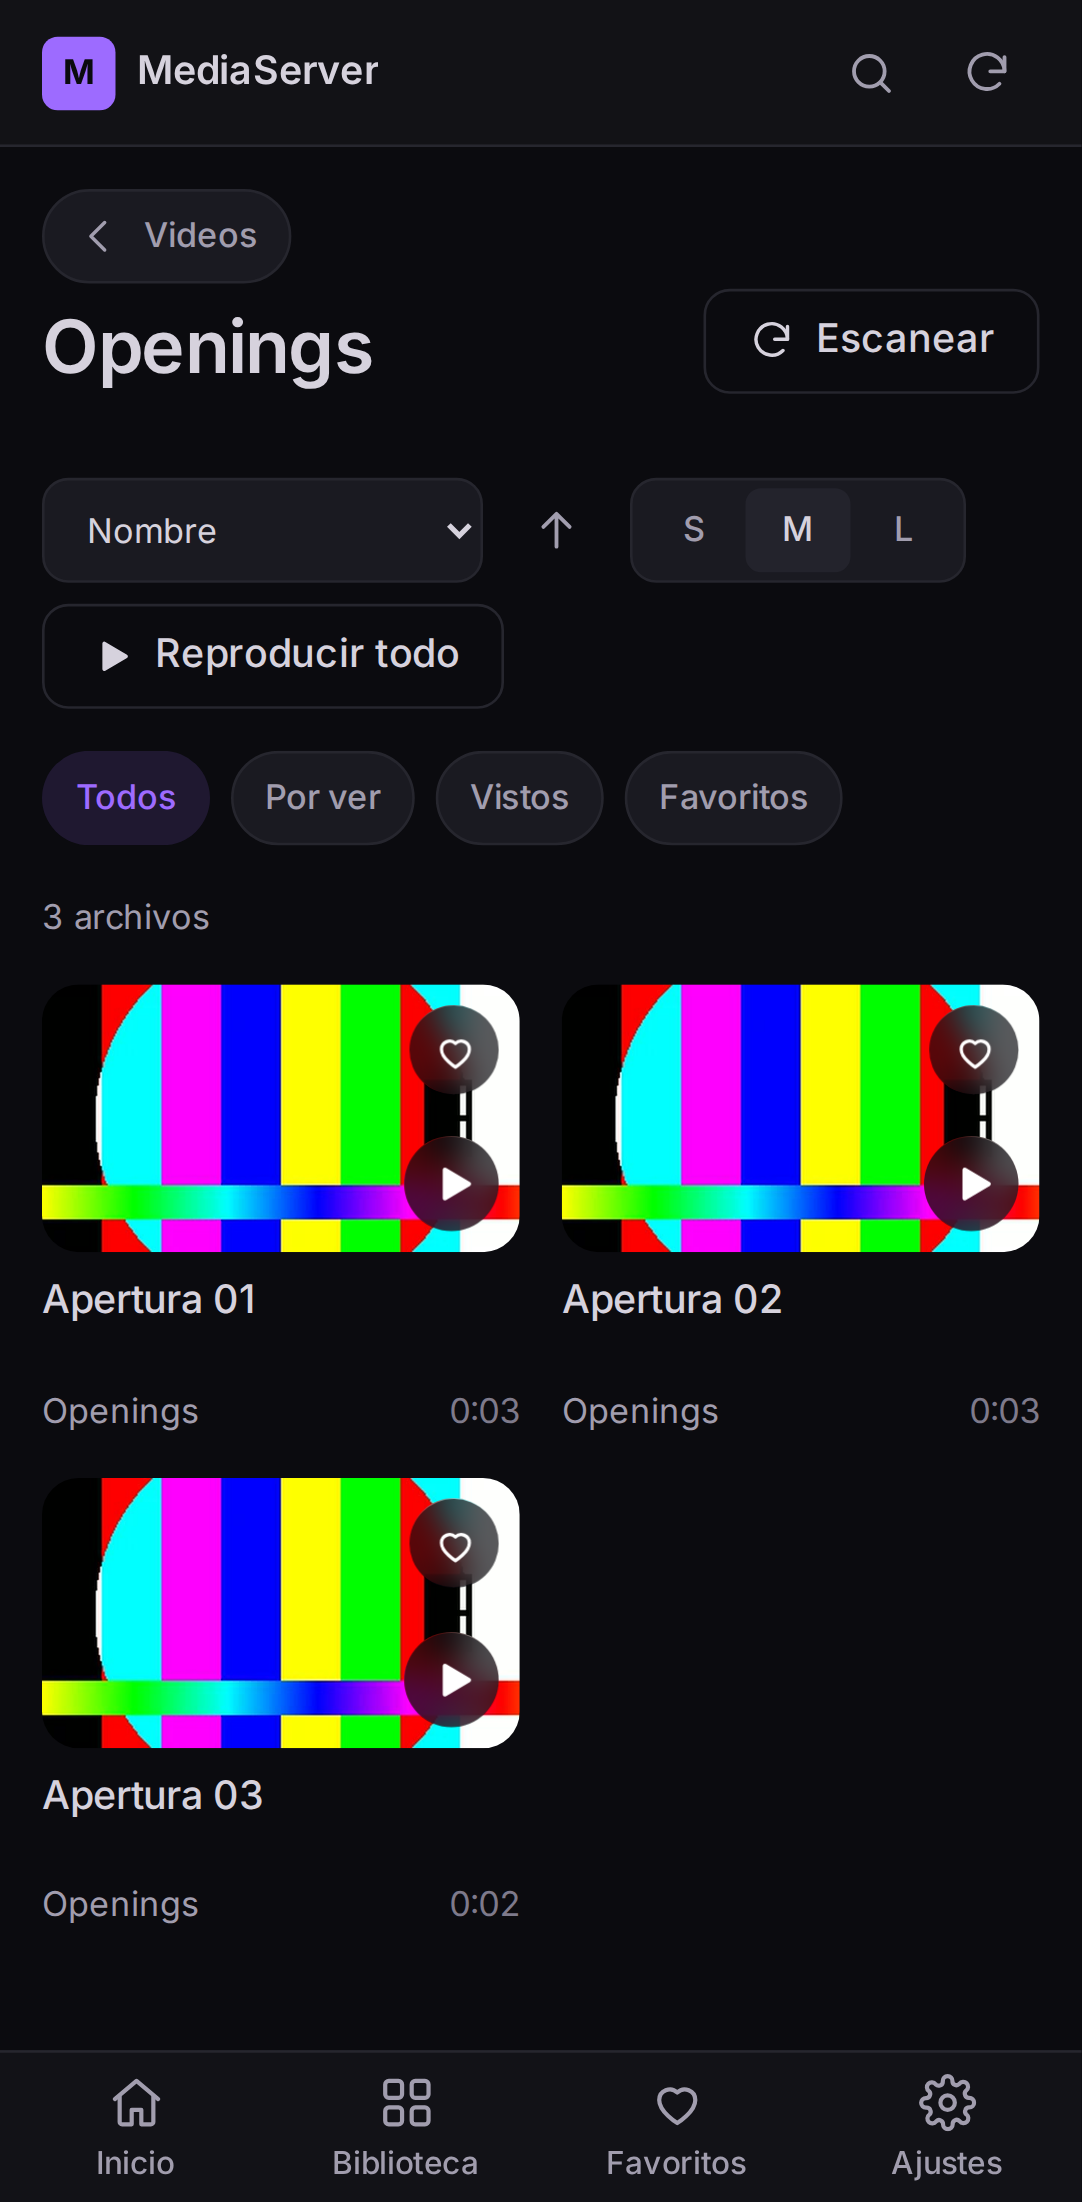
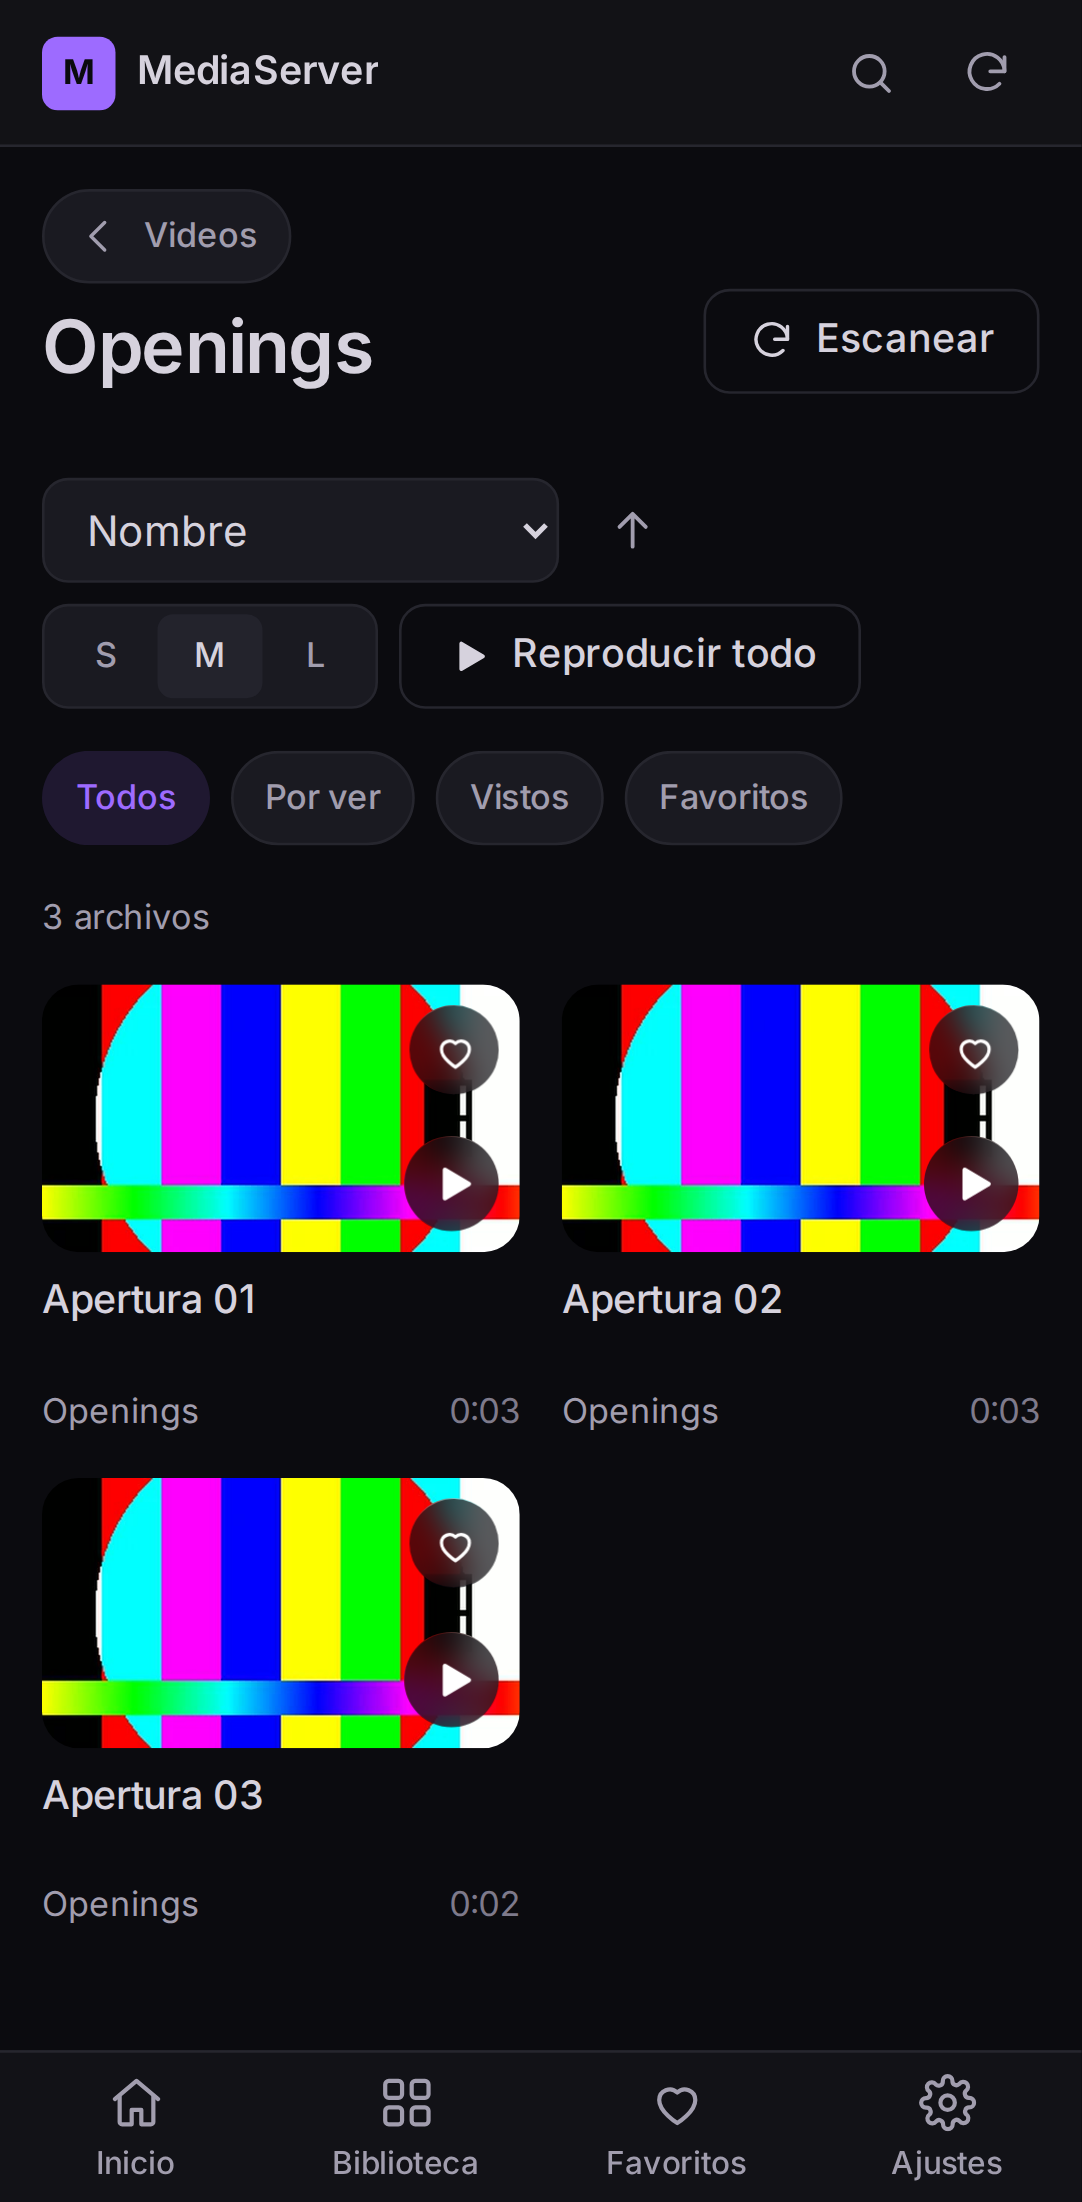
Evitar que el buscador cambie el ancho de la página en móvil
Eran dos problemas distintos y ambos reales:

1. Desbordamiento horizontal. Al desplegar la búsqueda, el envoltorio del
   campo no podía encogerse por debajo del ancho intrínseco de su input: es un
   elemento flex y le faltaba min-width: 0. Medido: a 360 px (el ancho más
   común en Android) la barra pedía 385 px, desbordaba 25 y arrastraba con
   ella el ancho de toda la página; a 320 px el desborde era de 64 px. Ahora
   el desborde es 0 en 320, 360 y 412 px, con la búsqueda abierta y cerrada.

2. Zoom automático en iOS. Los campos llevaban 15 px (y el selector de orden,
   13 px) y Safari amplía la página al enfocar un campo por debajo de 16 px;
   ese zoom se percibe como un cambio de ancho. Se añade el token --fs-field,
   que vale 16 px en pantallas táctiles (pointer: coarse) y 15 en el resto, y
   lo usan los campos y los desplegables. No sirve una regla suelta: perdía por
   especificidad contra .field input.

Dos tests de regresión nuevos: la búsqueda desplegada no desborda a 412, 360
ni 320 px, y los campos miden 16 px en táctil.

diff --git a/tests/e2e/navegacion.spec.ts b/tests/e2e/navegacion.spec.ts
@@ -68,6 +68,32 @@ test.describe('navegación en móvil', () => {
     }
   });
 
+  // Regresión: al desplegar la búsqueda, el envoltorio del campo no podía
+  // encogerse por debajo del ancho intrínseco del input. En un móvil de 360 px
+  // (el ancho más común en Android) la barra desbordaba 25 px y arrastraba el
+  // ancho de toda la página, que es lo que se veía como un salto de layout.
+  test('el buscador desplegado no ensancha la página', async ({ page }) => {
+    for (const ancho of [412, 360, 320]) {
+      await page.setViewportSize({ width: ancho, height: 800 });
+      await page.goto('/c/Videos/Openings');
+      await expect(page.getByRole('heading', { name: 'Openings', level: 1 })).toBeVisible();
+      expect(await horizontalOverflow(page), `con la búsqueda cerrada a ${ancho}px`).toBeLessThanOrEqual(0);
+
+      await page.getByRole('button', { name: 'Buscar' }).click();
+      await expect(page.getByRole('searchbox')).toBeVisible();
+      expect(await horizontalOverflow(page), `con la búsqueda abierta a ${ancho}px`).toBeLessThanOrEqual(0);
+    }
+  });
+
+  // Con menos de 16px, iOS amplía la página al enfocar el campo: el zoom se
+  // percibe como que la página cambia de ancho.
+  test('los campos llevan 16px en pantallas táctiles', async ({ page }) => {
+    await page.goto('/c/Videos/Openings');
+    await page.getByRole('button', { name: 'Buscar' }).click();
+    const tamano = await page.getByRole('searchbox').evaluate((element) => Number.parseFloat(getComputedStyle(element).fontSize));
+    expect(tamano).toBeGreaterThanOrEqual(16);
+  });
+
   test('los filtros del canal cambian lo que se ve', async ({ page }) => {
     await page.goto('/c/Videos/Openings');
     await expect(page.getByRole('heading', { name: 'Apertura 01' })).toBeVisible();

diff --git a/src/styles/app.css b/src/styles/app.css
@@ -72,10 +72,16 @@
   flex: 0 0 auto;
 }
 
-/* En móvil el buscador es un icono que lleva a /buscar; a partir de 600px es un
- * campo en línea. Nada de detectar el dispositivo por user-agent. */
+/* En móvil el buscador vive detrás de la lupa; a partir de 600px el campo está
+ * siempre en la barra. Nada de detectar el dispositivo por user-agent.
+ *
+ * `min-width: 0` es imprescindible: sin él, este envoltorio (que es un elemento
+ * flex) no puede encogerse por debajo del ancho intrínseco de su input, y al
+ * desplegar la búsqueda en un móvil de 360px la barra desbordaba 25px y
+ * arrastraba con ella el ancho de toda la página. */
 .appbar-inline-search {
   display: none;
+  min-width: 0;
 }
 
 .sub {
@@ -97,6 +103,7 @@
   .appbar-inline-search {
     display: block;
     flex: 1 1 auto;
+    min-width: 0;
     max-width: 440px;
     margin-left: var(--s-3);
   }
@@ -112,6 +119,7 @@
 .appbar[data-search="on"] .appbar-inline-search {
   display: block;
   flex: 1 1 auto;
+  min-width: 0;
   max-width: none;
   margin-left: 0;
 }
@@ -480,7 +488,7 @@
   background: none;
   /* Sin `outline: none`: el foco por teclado tiene que verse. El contorno lo
    * aporta la regla global `:focus-visible` de base.css. */
-  font-size: var(--fs-base);
+  font-size: var(--fs-field);
 }
 
 .field input::placeholder {
@@ -619,7 +627,7 @@
   border-radius: var(--r-sm);
   background: var(--surface-2);
   border: 1px solid var(--border);
-  font-size: var(--fs-sm);
+  font-size: var(--fs-field);
 }
 
 .switch {

diff --git a/src/styles/tokens.css b/src/styles/tokens.css
@@ -31,6 +31,10 @@
   --fs-lg: 1.25rem;
   --fs-xl: clamp(1.375rem, 4.5vw, 1.625rem);
   --fs-2xl: clamp(1.75rem, 6vw, 2.375rem);
+  /* Letra de los campos de formulario. En pantallas táctiles sube a 16px: iOS
+   * hace zoom sobre la página al enfocar un campo con letra menor, y ese zoom
+   * se percibe como que cambia el ancho de la página. */
+  --fs-field: 0.9375rem; /* 15px */
   --lh-tight: 1.2;
   --lh-base: 1.5;
   --fw-regular: 400;
@@ -50,6 +54,13 @@
   --content-max: 1560px;
   --safe-top: env(safe-area-inset-top, 0px);
   --safe-bottom: env(safe-area-inset-bottom, 0px);
+}
+
+/* Un campo con menos de 16px hace que iOS amplíe la página al enfocarlo. */
+@media (pointer: coarse) {
+  :root {
+    --fs-field: 1rem; /* 16px */
+  }
 }
 
 /* Tema oscuro — por defecto. Contraste del cuerpo ≈13:1, nunca 17:1:

diff --git a/src/styles/base.css b/src/styles/base.css
@@ -159,8 +159,7 @@ button {
   gap: var(--s-4);
 }
 
-/* Todo el movimiento se apaga si el usuario lo pide. */
-@media (prefers-reduced-motion: reduce) {
+/* Todo el movimiento se apaga si el usuario lo pide. */ @media (prefers-reduced-motion: reduce) {
   *,
   *::before,
   *::after {
